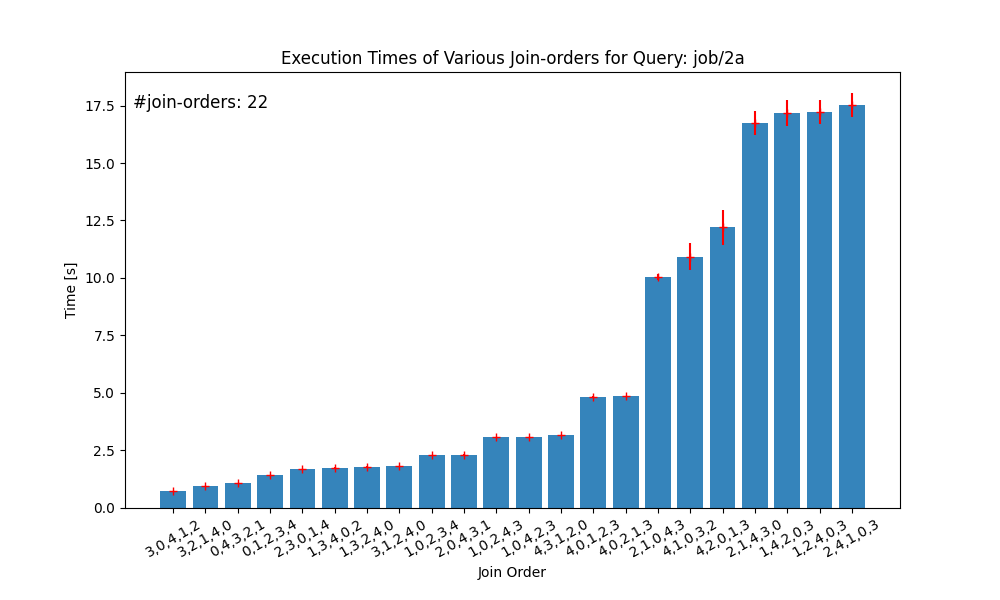
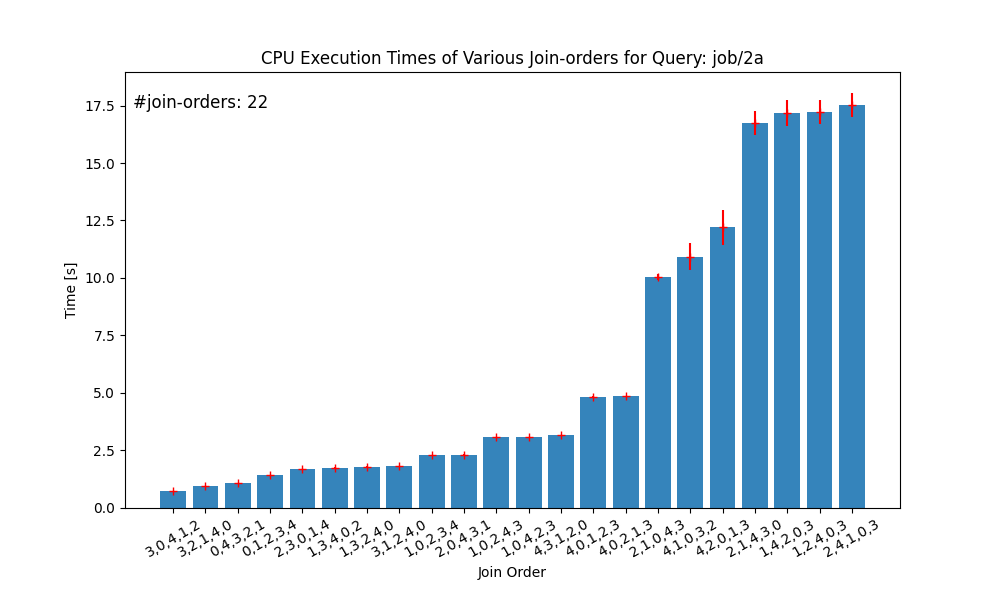
Add exec times plotting

Changed region(s): [[0.248, 0.06, 0.775, 0.12]]

diff --git a/jb-environment/join-benchmark/benchmark/run/individual/main_plot_exec_times.py b/jb-environment/join-benchmark/benchmark/run/individual/main_plot_exec_times.py
@@ -101,7 +101,7 @@ def main(
             bottom_margin = 0.1 + label_length * 0.006
             plt.subplots_adjust(bottom=bottom_margin)
 
-            plt.title("Execution Times of Various Join-orders for Query: " + query)
+            plt.title(("CPU" if set_number == 4 else "GPU") + " Execution Times of Various Join-orders for Query: " + query)
             plt.xlabel("Join Order")
 
             dir_path = f"{res_path}/figs/exec-times/set_{set_number}/{query}.png"
